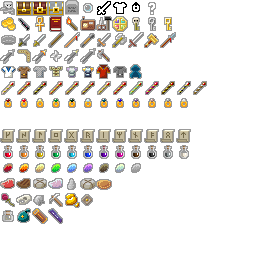
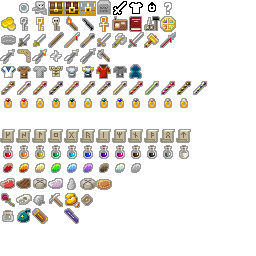
V0.2.0: finished mapping new spritesheet

diff --git a/src/com/shatteredpixel/shatteredpixeldungeon/sprites/ItemSpriteSheet.java b/src/com/shatteredpixel/shatteredpixeldungeon/sprites/ItemSpriteSheet.java
@@ -37,9 +37,35 @@ public class ItemSpriteSheet {
     private static final int ROW15 = 14*16;
     private static final int ROW16 = 15*16;
 
-    //Row One: Items which can't be obtained (inc. placeholders)
+    //Row One: Items which can't be obtained
+    //null warning occupies space 0, should only show up if there's a bug.
+    public static final int NULLWARN = ROW1+0;
+    public static final int DEWDROP	= ROW1+1;
+    // Heaps (containers)
+    public static final int BONES			= ROW1+2;
+    public static final int TOMB			= ROW1+3;
+    public static final int CHEST			= ROW1+4;
+    public static final int LOCKED_CHEST	= ROW1+5;
+    public static final int CRYSTAL_CHEST	= ROW1+6;
+    // Placeholders
+    public static final int WEAPON	= ROW1+7;
+    public static final int ARMOR	= ROW1+8;
+    public static final int RING	= ROW1+9;
+    public static final int SMTH	= ROW1+10;
 
     //Row Two: Miscellaneous single use items
+    public static final int GOLD	= ROW2+0;
+    public static final int TORCH	= ROW2+1;
+    public static final int STYLUS	= ROW2+2;
+    public static final int ANKH	= ROW2+3;
+    public static final int BEACON	= ROW2+4;
+    public static final int MASTERY	= ROW2+5;
+    public static final int KIT		= ROW2+6;
+    public static final int AMULET	= ROW2+7;
+    // Keys
+    public static final int IRON_KEY		= ROW2+8;
+    public static final int GOLDEN_KEY		= ROW2+9;
+    public static final int SKELETON_KEY	= ROW2+10;
 
     //Row Three: Melee weapons
     public static final int KNUCKLEDUSTER	= ROW3+0;
@@ -64,164 +90,113 @@ public class ItemSpriteSheet {
     public static final int TOMAHAWK		= ROW4+6;
 
     //Row Five: Armors
+    public static final int ARMOR_CLOTH		= ROW5+0;
+    public static final int ARMOR_LEATHER	= ROW5+1;
+    public static final int ARMOR_MAIL		= ROW5+2;
+    public static final int ARMOR_SCALE		= ROW5+3;
+    public static final int ARMOR_PLATE		= ROW5+4;
+    public static final int ARMOR_WARRIOR	= ROW5+5;
+    public static final int ARMOR_MAGE		= ROW5+6;
+    public static final int ARMOR_ROGUE		= ROW5+7;
+    public static final int ARMOR_HUNTRESS	= ROW5+8;
 
     //Row Six: Wands
+    public static final int WAND_MAGIC_MISSILE	= ROW6+0;
+    public static final int WAND_HOLLY			= ROW6+1;
+    public static final int WAND_YEW			= ROW6+2;
+    public static final int WAND_EBONY			= ROW6+3;
+    public static final int WAND_CHERRY			= ROW6+4;
+    public static final int WAND_TEAK			= ROW6+5;
+    public static final int WAND_ROWAN			= ROW6+6;
+    public static final int WAND_WILLOW			= ROW6+7;
+    public static final int WAND_MAHOGANY		= ROW6+8;
+    public static final int WAND_BAMBOO			= ROW6+9;
+    public static final int WAND_PURPLEHEART	= ROW6+10;
+    public static final int WAND_OAK			= ROW6+11;
+    public static final int WAND_BIRCH			= ROW6+12;
 
     //Row Seven: Rings
+    public static final int RING_GARNET		= ROW7+0;
+    public static final int RING_RUBY		= ROW7+1;
+    public static final int RING_TOPAZ		= ROW7+2;
+    public static final int RING_EMERALD	= ROW7+3;
+    public static final int RING_ONYX		= ROW7+4;
+    public static final int RING_OPAL		= ROW7+5;
+    public static final int RING_TOURMALINE	= ROW7+6;
+    public static final int RING_SAPPHIRE	= ROW7+7;
+    public static final int RING_AMETHYST	= ROW7+8;
+    public static final int RING_QUARTZ		= ROW7+9;
+    public static final int RING_AGATE		= ROW7+10;
+    public static final int RING_DIAMOND	= ROW7+11;
 
     //Row Eight: Trinkets
+    //ssshhh...
 
     //Row Nine: Scrolls
+    public static final int SCROLL_KAUNAN	= ROW9+0;
+    public static final int SCROLL_SOWILO	= ROW9+1;
+    public static final int SCROLL_LAGUZ	= ROW9+2;
+    public static final int SCROLL_YNGVI	= ROW9+3;
+    public static final int SCROLL_GYFU		= ROW9+4;
+    public static final int SCROLL_RAIDO	= ROW9+5;
+    public static final int SCROLL_ISAZ		= ROW9+6;
+    public static final int SCROLL_MANNAZ	= ROW9+7;
+    public static final int SCROLL_NAUDIZ	= ROW9+8;
+    public static final int SCROLL_BERKANAN	= ROW9+9;
+    public static final int SCROLL_ODAL		= ROW9+10;
+    public static final int SCROLL_TIWAZ	= ROW9+11;
 
     //Row Ten: Potions
+    public static final int POTION_CRIMSON		= ROW10+0;
+    public static final int POTION_AMBER		= ROW10+1;
+    public static final int POTION_GOLDEN		= ROW10+2;
+    public static final int POTION_JADE			= ROW10+3;
+    public static final int POTION_TURQUOISE    = ROW10+4;
+    public static final int POTION_AZURE		= ROW10+5;
+    public static final int POTION_INDIGO		= ROW10+6;
+    public static final int POTION_MAGENTA		= ROW10+7;
+    public static final int POTION_BISTRE		= ROW10+8;
+    public static final int POTION_CHARCOAL		= ROW10+9;
+    public static final int POTION_SILVER		= ROW10+10;
+    public static final int POTION_IVORY		= ROW10+11;
 
     //Row Eleven: Seeds
+    public static final int SEED_ROTBERRY	= ROW11+0;
+    public static final int SEED_FIREBLOOM	= ROW11+1;
+    public static final int SEED_BLINDWEED	= ROW11+2;
+    public static final int SEED_SUNGRASS	= ROW11+3;
+    public static final int SEED_ICECAP		= ROW11+4;
+    public static final int SEED_SORROWMOSS	= ROW11+5;
+    public static final int SEED_EARTHROOT	= ROW11+6;
+    public static final int SEED_FADELEAF	= ROW11+7;
+    public static final int SEED_BLANDFRUIT	= ROW11+8;
 
     //Row Twelve: Food
+    public static final int MEAT		= ROW12+0;
+    public static final int STEAK		= ROW12+1;
+    public static final int OVERPRICED	= ROW12+2;
+    public static final int CARPACCIO	= ROW12+3;
+    public static final int BLANDFRUIT	= ROW12+4;
+    public static final int RATION		= ROW12+5;
+    public static final int PASTY		= ROW12+6;
 
     //Row Thirteen: Quest Items
+    public static final int ROSE	= ROW13+0;
+    public static final int SKULL	= ROW13+1;
+    public static final int DUST	= ROW13+2;
+    public static final int PICKAXE	= ROW13+3;
+    public static final int ORE		= ROW13+4;
+    public static final int TOKEN	= ROW13+5;
 
     //Row Fourteen: Containers/Bags
+    public static final int VIAL	    = ROW14+0;
+    public static final int POUCH	    = ROW14+1;
+    public static final int HOLDER	    = ROW14+2;
+    public static final int BANDOLIER   = ROW14+3;
+    public static final int HOLSTER	    = ROW14+4;=
 
     //Row Fifteen: Unused
 
     //Row Sixteen: Unused
 
-
-
-
-	// Placeholders
-	public static final int WEAPON	= 5;
-	public static final int ARMOR	= 6;
-	public static final int RING	= 7;
-	public static final int SMTH	= 127;
-	
-	// Keys
-	public static final int SKELETON_KEY	= 8;
-	public static final int IRON_KEY		= 9;
-	public static final int GOLDEN_KEY		= 10;
-
-	
-	// Missile weapons
-
-	
-	// Armors
-	public static final int ARMOR_CLOTH		= 24;
-	public static final int ARMOR_LEATHER	= 25;
-	public static final int ARMOR_MAIL		= 26;
-	public static final int ARMOR_SCALE		= 27;
-	public static final int ARMOR_PLATE		= 28;
-	public static final int ARMOR_ROGUE		= 96;
-	public static final int ARMOR_WARRIOR	= 97;
-	public static final int ARMOR_MAGE		= 98;
-	public static final int ARMOR_HUNTRESS	= 99;
-	
-	// Wands
-	public static final int WAND_MAGIC_MISSILE	= 3;
-	public static final int WAND_HOLLY			= 48;
-	public static final int WAND_YEW			= 49;
-	public static final int WAND_EBONY			= 50;
-	public static final int WAND_CHERRY			= 51;
-	public static final int WAND_TEAK			= 52;
-	public static final int WAND_ROWAN			= 53;
-	public static final int WAND_WILLOW			= 54;
-	public static final int WAND_MAHOGANY		= 55;
-	public static final int WAND_BAMBOO			= 68;
-	public static final int WAND_PURPLEHEART	= 69;
-	public static final int WAND_OAK			= 70;
-	public static final int WAND_BIRCH			= 71;
-	
-	// Rings
-	public static final int RING_DIAMOND	= 32;
-	public static final int RING_OPAL		= 33;
-	public static final int RING_GARNET		= 34;
-	public static final int RING_RUBY		= 35;
-	public static final int RING_AMETHYST	= 36;
-	public static final int RING_TOPAZ		= 37;
-	public static final int RING_ONYX		= 38;
-	public static final int RING_TOURMALINE	= 39;
-	public static final int RING_EMERALD	= 72;
-	public static final int RING_SAPPHIRE	= 73;
-	public static final int RING_QUARTZ		= 74;
-	public static final int RING_AGATE		= 75;
-	
-	// Potions
-	public static final int POTION_TURQUOISE	= 56;
-	public static final int POTION_CRIMSON		= 57;
-	public static final int POTION_AZURE		= 58;
-	public static final int POTION_JADE			= 59;
-	public static final int POTION_GOLDEN		= 60;
-	public static final int POTION_MAGENTA		= 61;
-	public static final int POTION_CHARCOAL		= 62;
-	public static final int POTION_IVORY		= 63;
-	public static final int POTION_AMBER		= 64;
-	public static final int POTION_BISTRE		= 65;
-	public static final int POTION_INDIGO		= 66;
-	public static final int POTION_SILVER		= 67;
-	
-	// Scrolls
-	public static final int SCROLL_KAUNAN	= 40;
-	public static final int SCROLL_SOWILO	= 41;
-	public static final int SCROLL_LAGUZ	= 42;
-	public static final int SCROLL_YNGVI	= 43;
-	public static final int SCROLL_GYFU		= 44;
-	public static final int SCROLL_RAIDO	= 45;
-	public static final int SCROLL_ISAZ		= 46;
-	public static final int SCROLL_MANNAZ	= 47;
-	public static final int SCROLL_NAUDIZ	= 76;
-	public static final int SCROLL_BERKANAN	= 77;
-	public static final int SCROLL_ODAL		= 78;
-	public static final int SCROLL_TIWAZ	= 79;
-	
-	// Seeds
-	public static final int SEED_FIREBLOOM	= 88;
-	public static final int SEED_ICECAP		= 89;
-	public static final int SEED_SORROWMOSS	= 90;
-	public static final int SEED_BLINDWEED	= 91;
-	public static final int SEED_SUNGRASS	= 92;
-	public static final int SEED_EARTHROOT	= 93;
-	public static final int SEED_FADELEAF	= 94;
-	public static final int SEED_ROTBERRY	= 95;
-    public static final int SEED_BLANDFRUIT	= 118;
-	
-	// Quest items
-	public static final int ROSE	= 100;
-	public static final int PICKAXE	= 101;
-	public static final int ORE		= 102;
-	public static final int SKULL	= 103;
-	public static final int DUST	= 121;
-	public static final int TOKEN	= 122;
-	
-	// Heaps (containers)
-	public static final int BONES			= 0;
-	public static final int CHEST			= 11;
-	public static final int LOCKED_CHEST	= 12;
-	public static final int TOMB			= 13;
-	public static final int CRYSTAL_CHEST	= 105;
-	
-	// Food
-	public static final int RATION		= 4;
-	public static final int PASTY		= 112;
-	public static final int MEAT		= 113;
-	public static final int STEAK		= 114;
-	public static final int OVERPRICED	= 115;
-	public static final int CARPACCIO	= 116;
-    public static final int BLANDFRUIT	= 117;
-	
-	// Bags
-	public static final int POUCH	= 83;
-	public static final int HOLDER	= 104;
-	public static final int HOLSTER	= 111;
-	
-	// Misc
-	public static final int ANKH	= 1;
-	public static final int GOLD	= 14;
-	public static final int STYLUS	= 80;
-	public static final int DEWDROP	= 81;
-	public static final int MASTERY	= 82;
-	public static final int TORCH	= 84;
-	public static final int BEACON	= 85;
-	public static final int KIT		= 86;
-	public static final int AMULET	= 87;
-	public static final int VIAL	= 120;
 }
